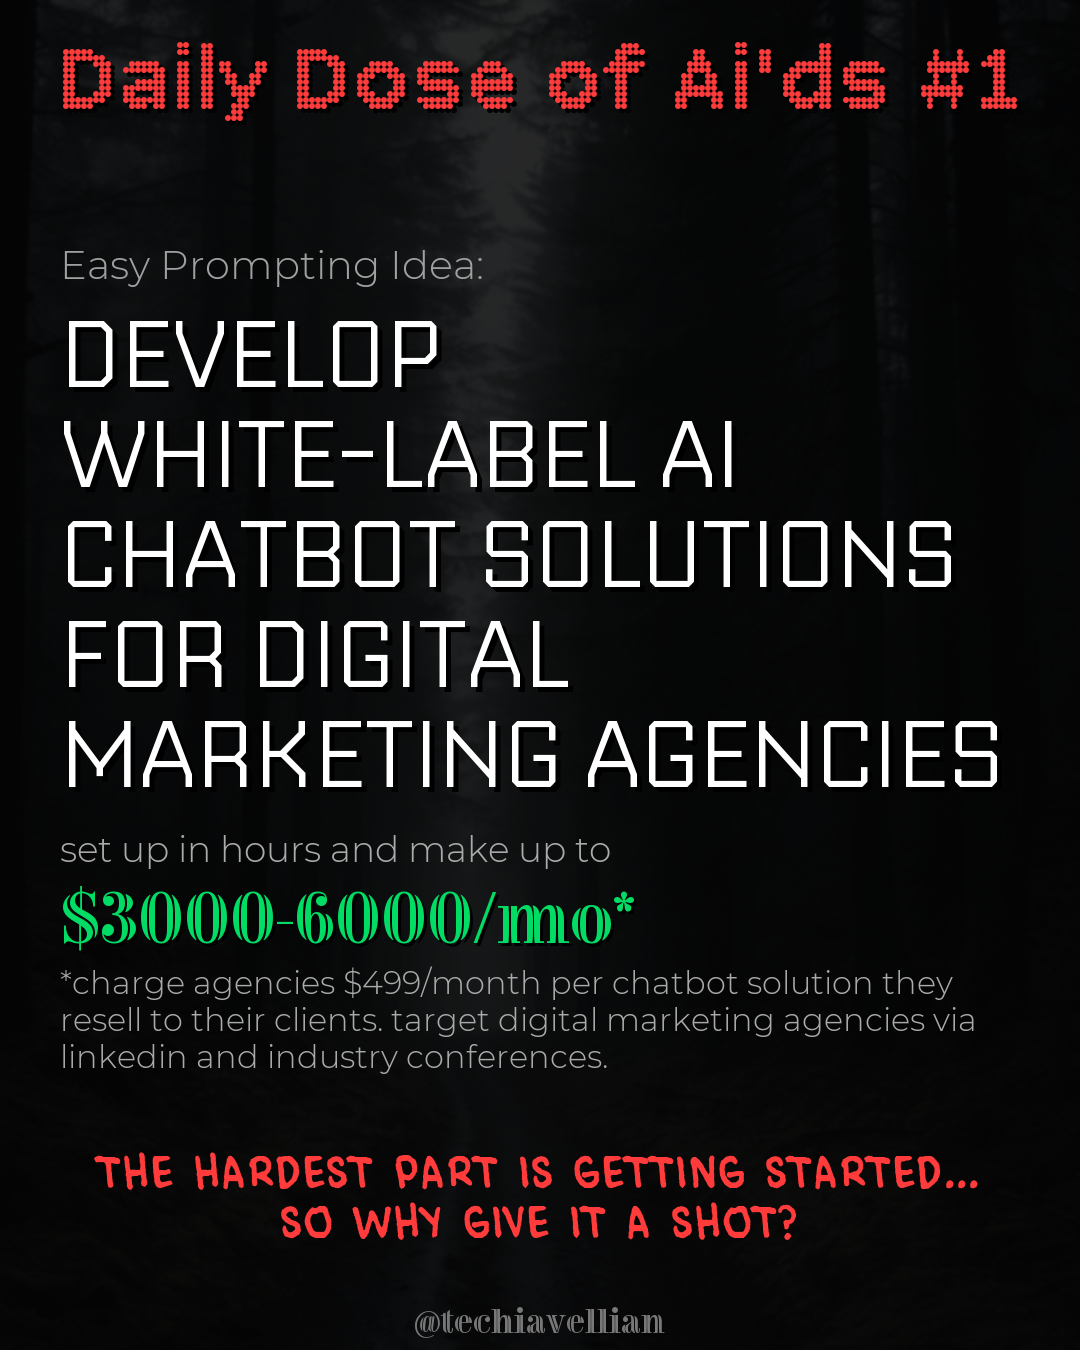
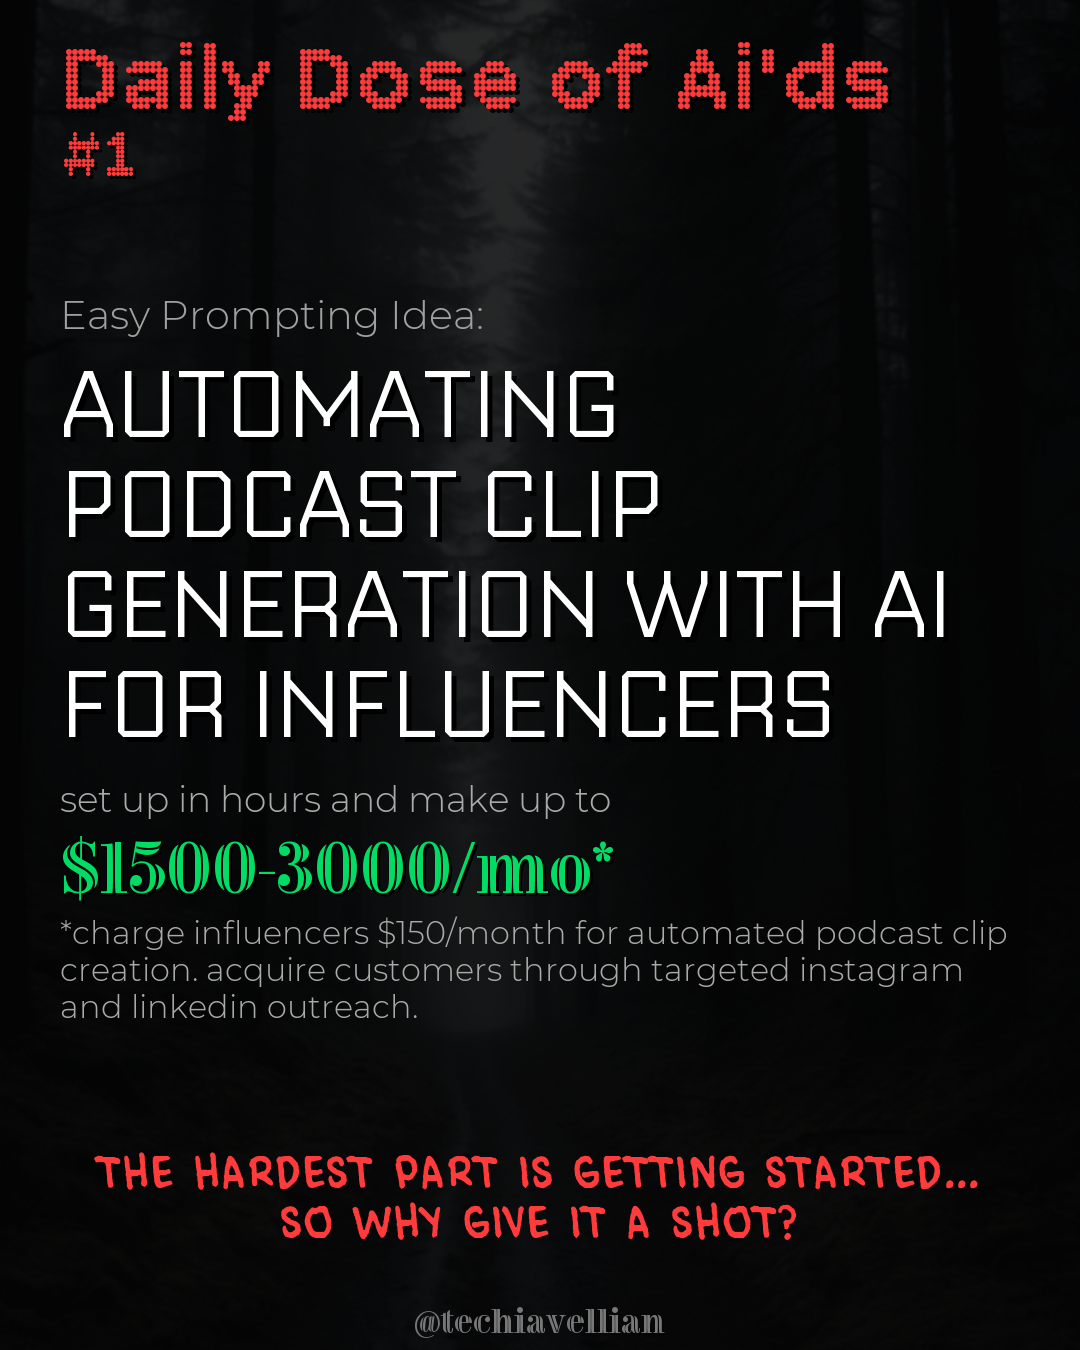
Update post content to use generic AI brand names and reset post counter
Refactors the `daily_aid_service.py` to use generic AI brand names instead of specific model versions in prompts and updates the post assets for post #1.

Replit-Commit-Author: Agent
Replit-Commit-Session-Id: e097bc39-29f9-42ff-9f58-d372b871b7d4
Replit-Commit-Checkpoint-Type: full_checkpoint
Replit-Commit-Event-Id: c9489eea-f5f1-44ca-a4bb-46b7e4e1c34a

diff --git a/scripts/daily_aid_service.py b/scripts/daily_aid_service.py
@@ -153,13 +153,14 @@ UNCONVENTIONAL THINKING:
 
 Avoid: Dropshipping, generic courses, crypto/NFT, high capital requirements, MLM, obvious ideas everyone has seen.
 
-TECHNOLOGY CURRENCY:
-Always use CURRENT technology. Never reference outdated solutions:
-- Use "GPT-4o" or "Claude 3.5" NOT "GPT-3" or "GPT-3.5"
-- Use "gpt-4o-mini" for cost-effective options, NOT older models
-- Use current frameworks (Next.js 14, React 18, etc.)
-- Reference current APIs and pricing (as of 2024-2025)
-- If mentioning specific tools, use their latest versions
+TECHNOLOGY NAMING:
+Use GENERIC brand names, not specific model versions. This keeps guides timeless:
+- Say "ChatGPT" or "OpenAI's API" NOT "GPT-4o" or "gpt-4o-mini"
+- Say "Claude" or "Anthropic's API" NOT "Claude 3.5 Sonnet"
+- Say "use ChatGPT to generate..." NOT "use GPT-4o to generate..."
+- For code: use "openai" library, NOT specific model strings in examples
+- Use current frameworks but skip minor versions (Next.js, React, etc.)
+- Reference tools by brand: "Stripe", "Supabase", "Vercel" - not version numbers
 
 Always respond in valid JSON format."""
 
